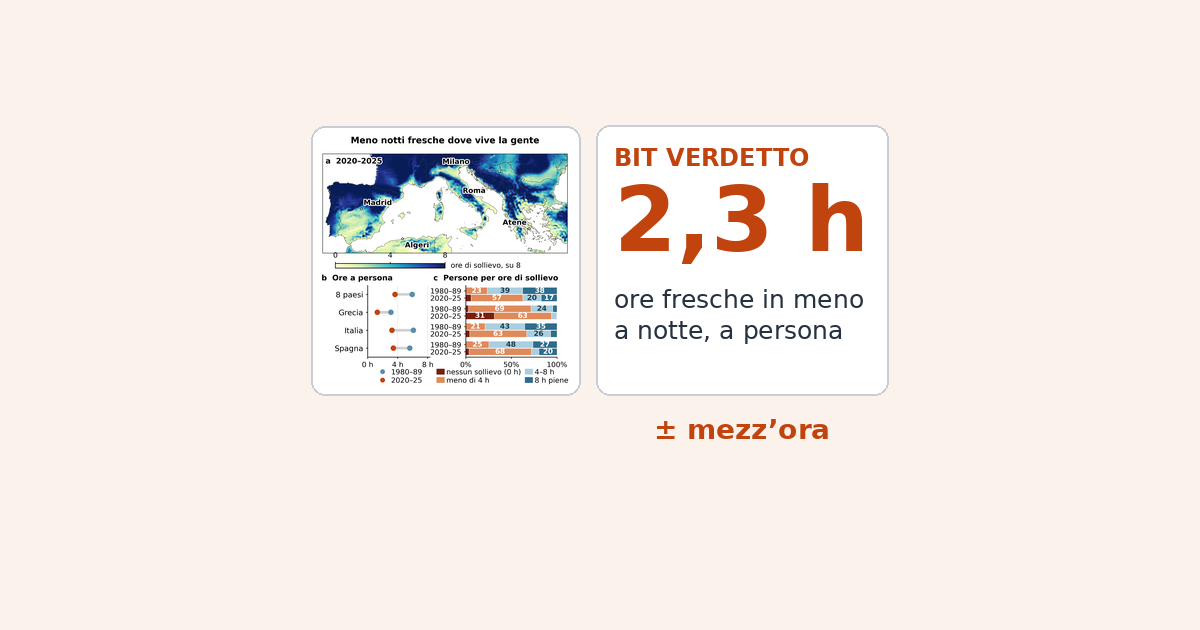
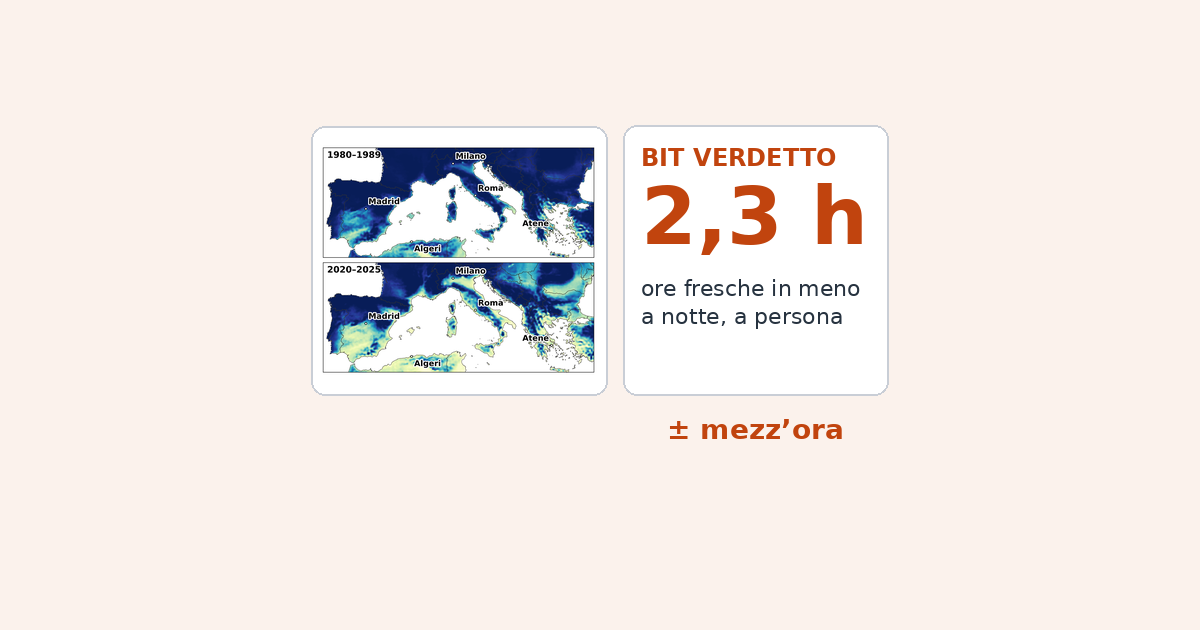
Preview: the two maps without colour bar (Riccardo's choice of 4 Oct), restored

Changed region(s): [[0.2467, 0.181, 0.74, 0.6333], [0.555, 0.6635, 0.7092, 0.6937], [0.6783, 0.3016, 0.7092, 0.4222]]

diff --git a/code/make_preview.py b/code/make_preview.py
@@ -3,13 +3,13 @@ Build #001's preview image (the link card on Substack, Bluesky, X and LinkedIn),
 
 Format §9.8 as revised on 2026-10-05 (decisions 31-32): background #FBF2EC full bleed, all content in
 the central safe zone x 310-890, y 125-455. Two white rounded panels with a thin grey border, in the
-top of the zone (y 125-395), which must survive every crop: left, the TRUE figure, uncropped (its Note
-version, which shows the per-person loss); right, "BIT VERDICT", the Reality's hero number and a gloss
+top of the zone (y 125-395), which must survive every crop: left, the Mediterranean in the 1980s above
+the 2020s, without colour bar (make_preview_map.py; Riccardo's choice of 2026-10-04, restored 2026-10-05); right, "BIT VERDICT", the Reality's hero number and a gloss
 of at most 8 words. The bottom band (y 395-455) holds only what may be lost: the range line.
 The number is read from KEY_NUMBERS.md ("Verdict, Reality line"), exactly as the Verdict states it.
 Fails if it is missing, if the hero would be under 60 px, or if the gloss needs a third line. After
 saving, the PNG is read back and its content box checked inside the safe zone; 160 px and centred
-square crops are saved for the checks. Run make_fig3_note.py en|it first.
+square crops are saved for the checks. Run make_preview_map.py en|it first.
 
     python make_preview.py en|it        -> figures/fig-001-preview[-it].png
 
@@ -26,9 +26,9 @@ import matplotlib
 
 LANG = sys.argv[1] if len(sys.argv) > 1 and sys.argv[1] in ("en", "it") else "en"
 TXT = {"en": dict(kicker="BIT VERDICT", gloss="fewer cool hours a night, per person", rng={"half an hour": "± half an hour"},
-                  fig="fig-001-true-note.png", out="fig-001-preview.png"),
+                  fig="fig-001-preview-map.png", out="fig-001-preview.png"),
        "it": dict(kicker="BIT VERDETTO", gloss="ore fresche in meno a notte, a persona", rng={"half an hour": "± mezz’ora"},
-                  fig="fig-001-true-note-it.png", out="fig-001-preview-it.png")}[LANG]
+                  fig="fig-001-preview-map-it.png", out="fig-001-preview-it.png")}[LANG]
 W, H = 1200, 630
 SAFE = (310, 125, 890, 455); TOP_END = 395            # panels in y 125-395; the bottom band only for the range line
 SQUARE = (285, 0, 915, 630)
@@ -46,8 +46,8 @@ if not m:
 hero = (m.group(1).replace(".", ",") if LANG == "it" else m.group(1)) + " h"
 rng = TXT["rng"].get(m.group(2), "") if m.group(2) else ""
 
-# left panel: the TRUE figure, uncropped
-PH = TOP_END - y0; LW = PH; PAD = 8
+# left panel: the two maps, uncropped
+PH = TOP_END - y0; LW = round(PH * 1.1); PAD = 8
 d.rounded_rectangle([x0 + 1, y0 + 1, x0 + LW, TOP_END], radius=14, fill=PANEL, outline=BORDER, width=2)
 f = Image.open(FIGURES / TXT["fig"]).convert("RGB")
 s = min((LW - 2 * PAD) / f.width, (PH - 2 * PAD) / f.height); fw, fh = round(f.width * s), round(f.height * s)
